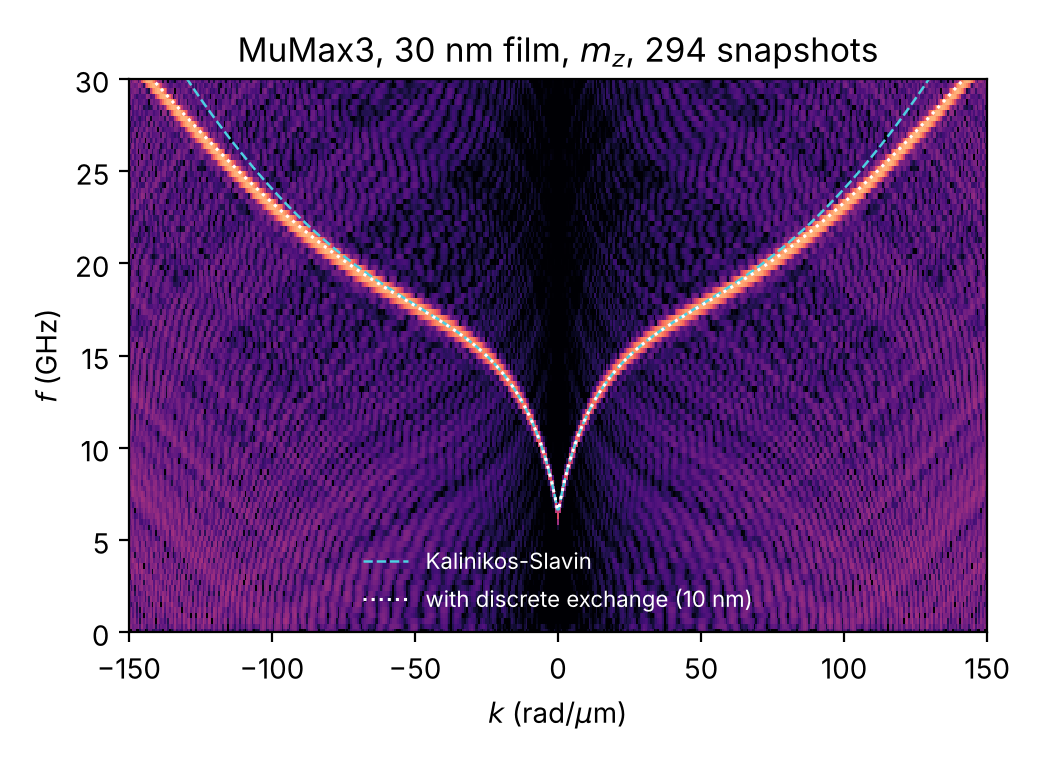
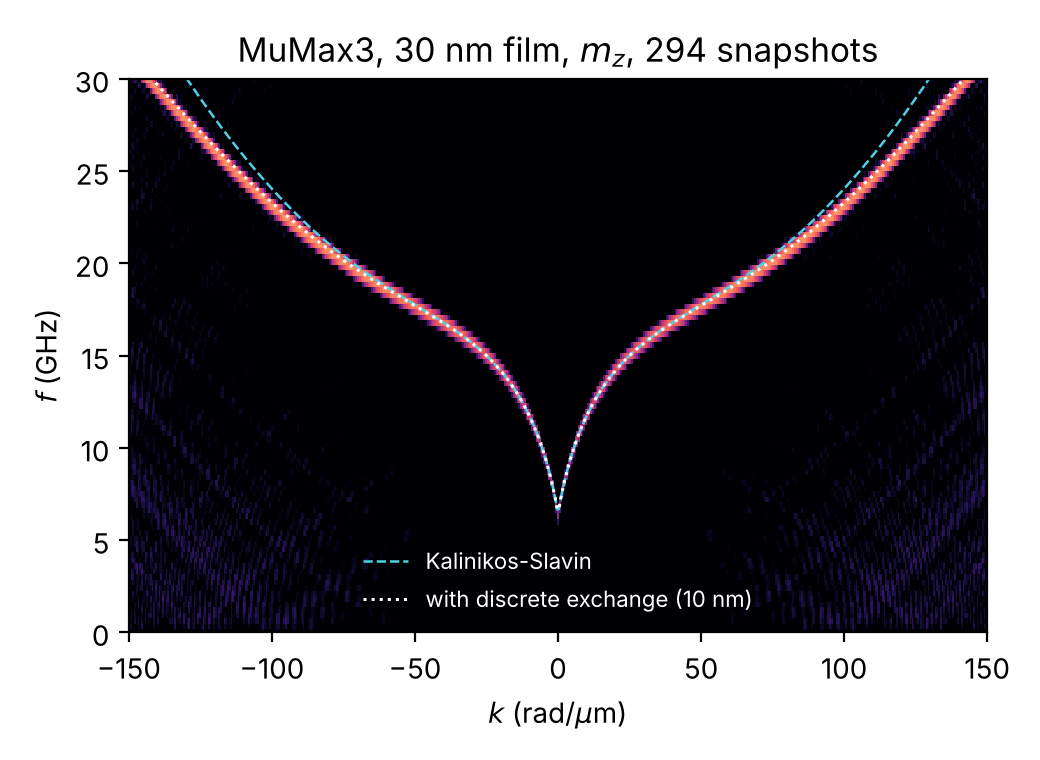
Plots: colour floor at 1 % of the maximum (less background)
Claude-Session: https://claude.ai/code/session_013vpkU2yQ1oTaoCQ61swxB3

diff --git a/src/swdispersion/plotting.py b/src/swdispersion/plotting.py
@@ -16,13 +16,15 @@ def plot_dispersion(
     kmax: float | None = None,
     log: bool = True,
     cmap: str = "magma",
-    vmin_ratio: float = 1e-3,
+    vmin_ratio: float = 1e-2,
 ):
     """Show the dispersion as an image: k in rad/um on x, f in GHz on y.
 
     ``log=True`` uses a logarithmic colour scale, which shows weak higher
     modes next to the strong fundamental one. ``vmin_ratio`` sets the lowest
-    colour relative to the maximum.
+    colour relative to the maximum. With the default 1e-2, everything more
+    than 100 times weaker than the strongest mode is drawn black, which hides
+    the numerical background.
     """
     if ax is None:
         _, ax = plt.subplots(figsize=(5, 4))
